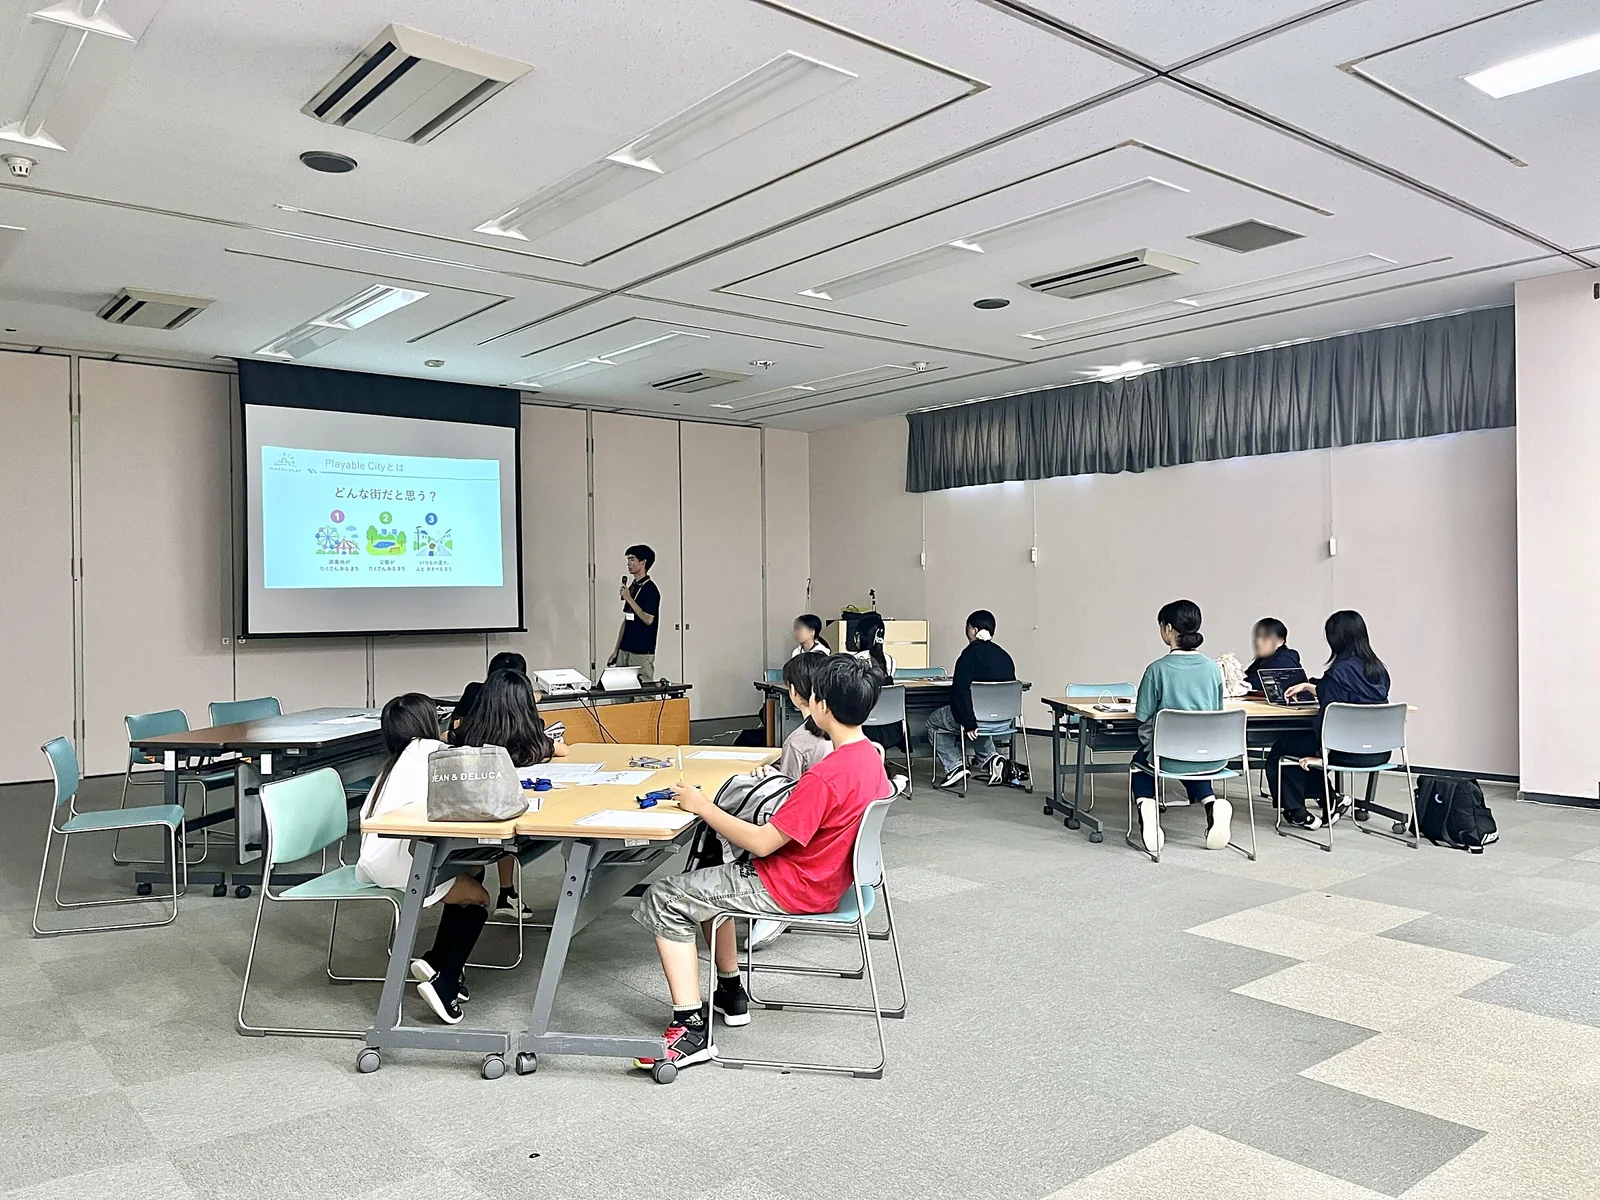
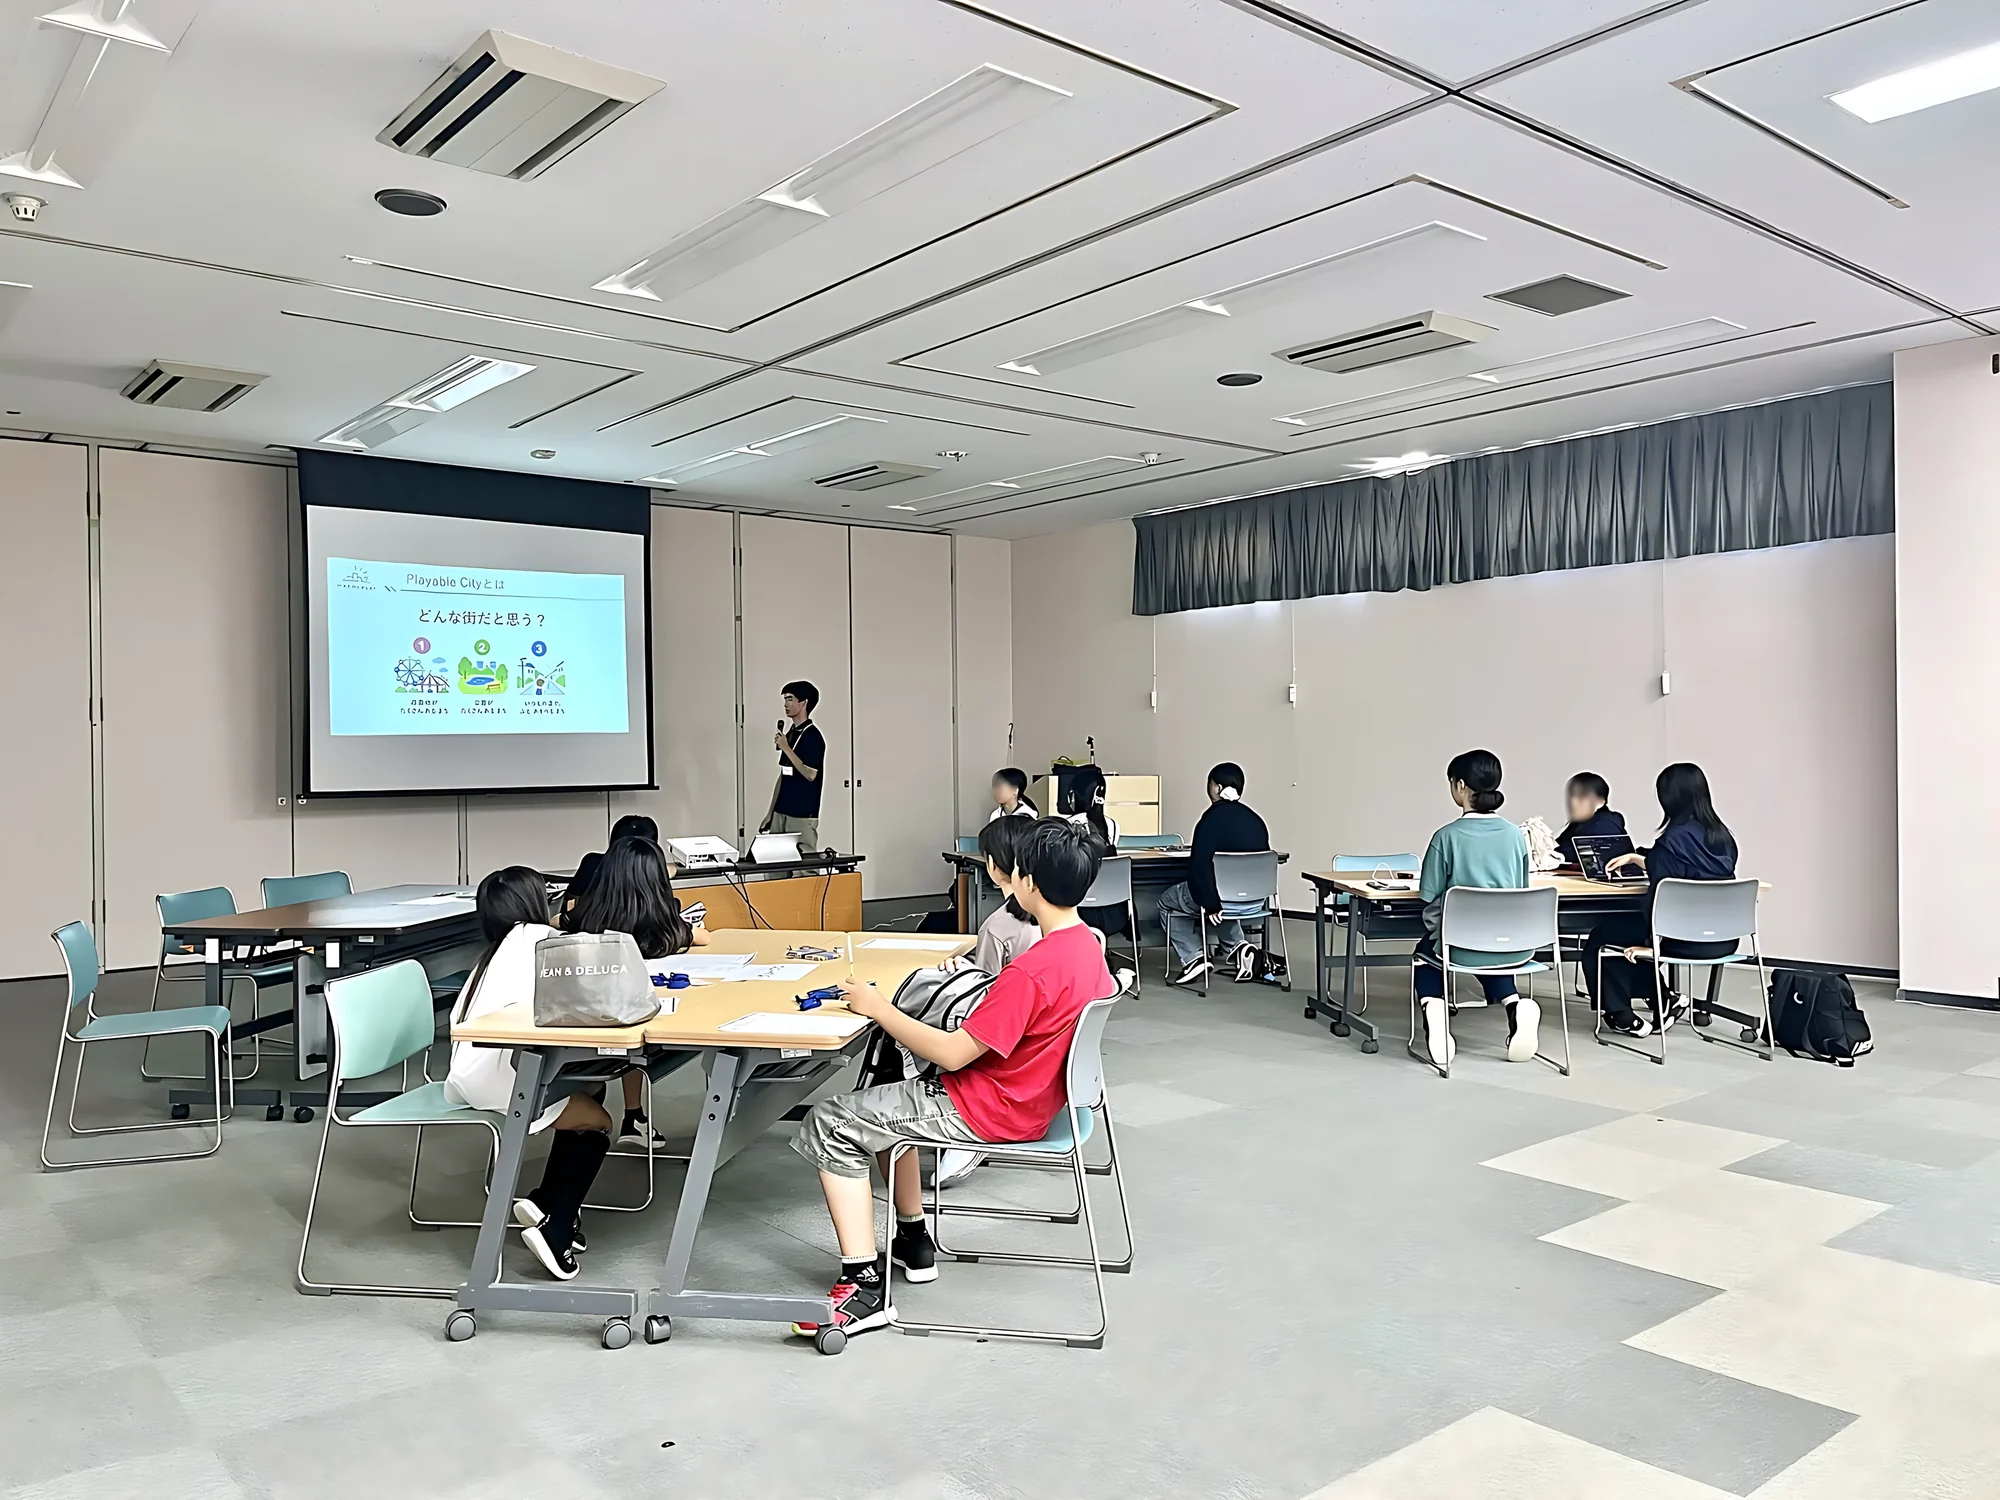
Use the sharper photo of the room

diff --git a/top-c/projects/workshop/index.html b/top-c/projects/workshop/index.html
@@ -55,7 +55,7 @@
   <div class="wrap">
 
     <figure class="fig-wide">
-      <img src="/assets/photos/ws-room.webp" width="1600" height="1200" fetchpriority="high"
+      <img src="/assets/photos/ws-room.webp?v=2" width="2000" height="1500" fetchpriority="high"
         alt="多目的ホールのスクリーンに資料を映し、参加者が席について話を聞いているようす">
       <figcaption>はじめに、まちづくりと Playable City の話をしました。</figcaption>
     </figure>
